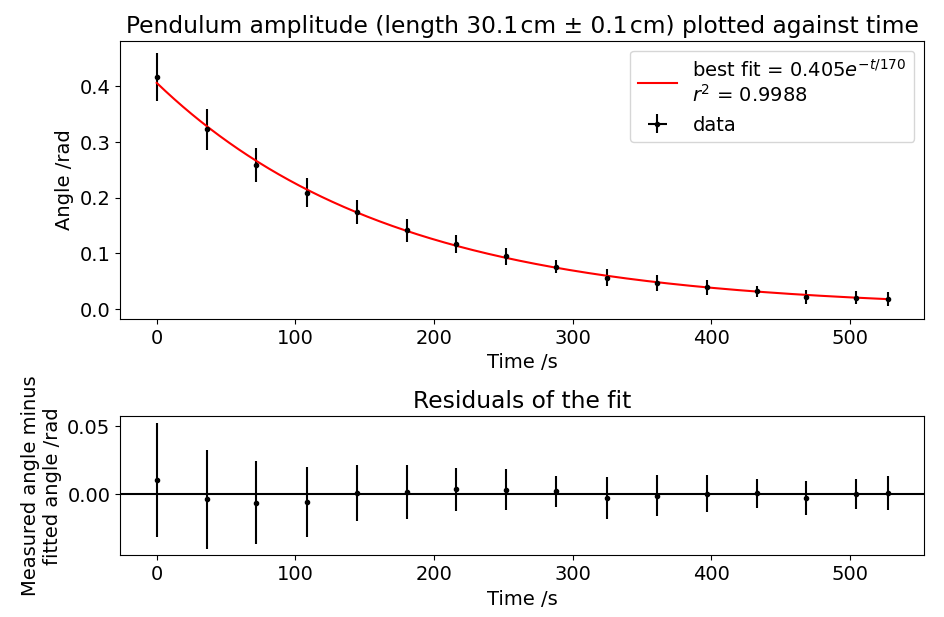
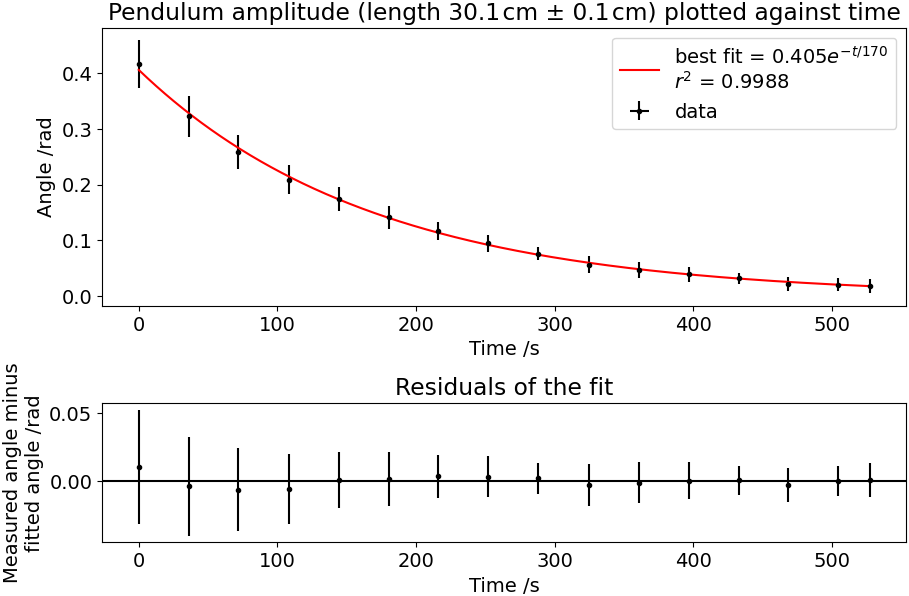
removing padding in images

diff --git a/report/appendix.tex b/report/appendix.tex
@@ -69,4 +69,3 @@ Thus, the final equation for Q factor is represented by the equation
 
 where $d_1$, $d_2$, and $d_3$ are new constants after dividing the top and bottom by $c_4$.
 \end{document}
-

diff --git a/report/lab.tex b/report/lab.tex
@@ -280,6 +280,6 @@ Unfortunately, it cannot be concluded that \ref{eq:crit-damp} is the correct mod
 
 \appendix
 
-\subfile{appendix.tex}
+% \subfile{appendix.tex}
 
 \end{document}
